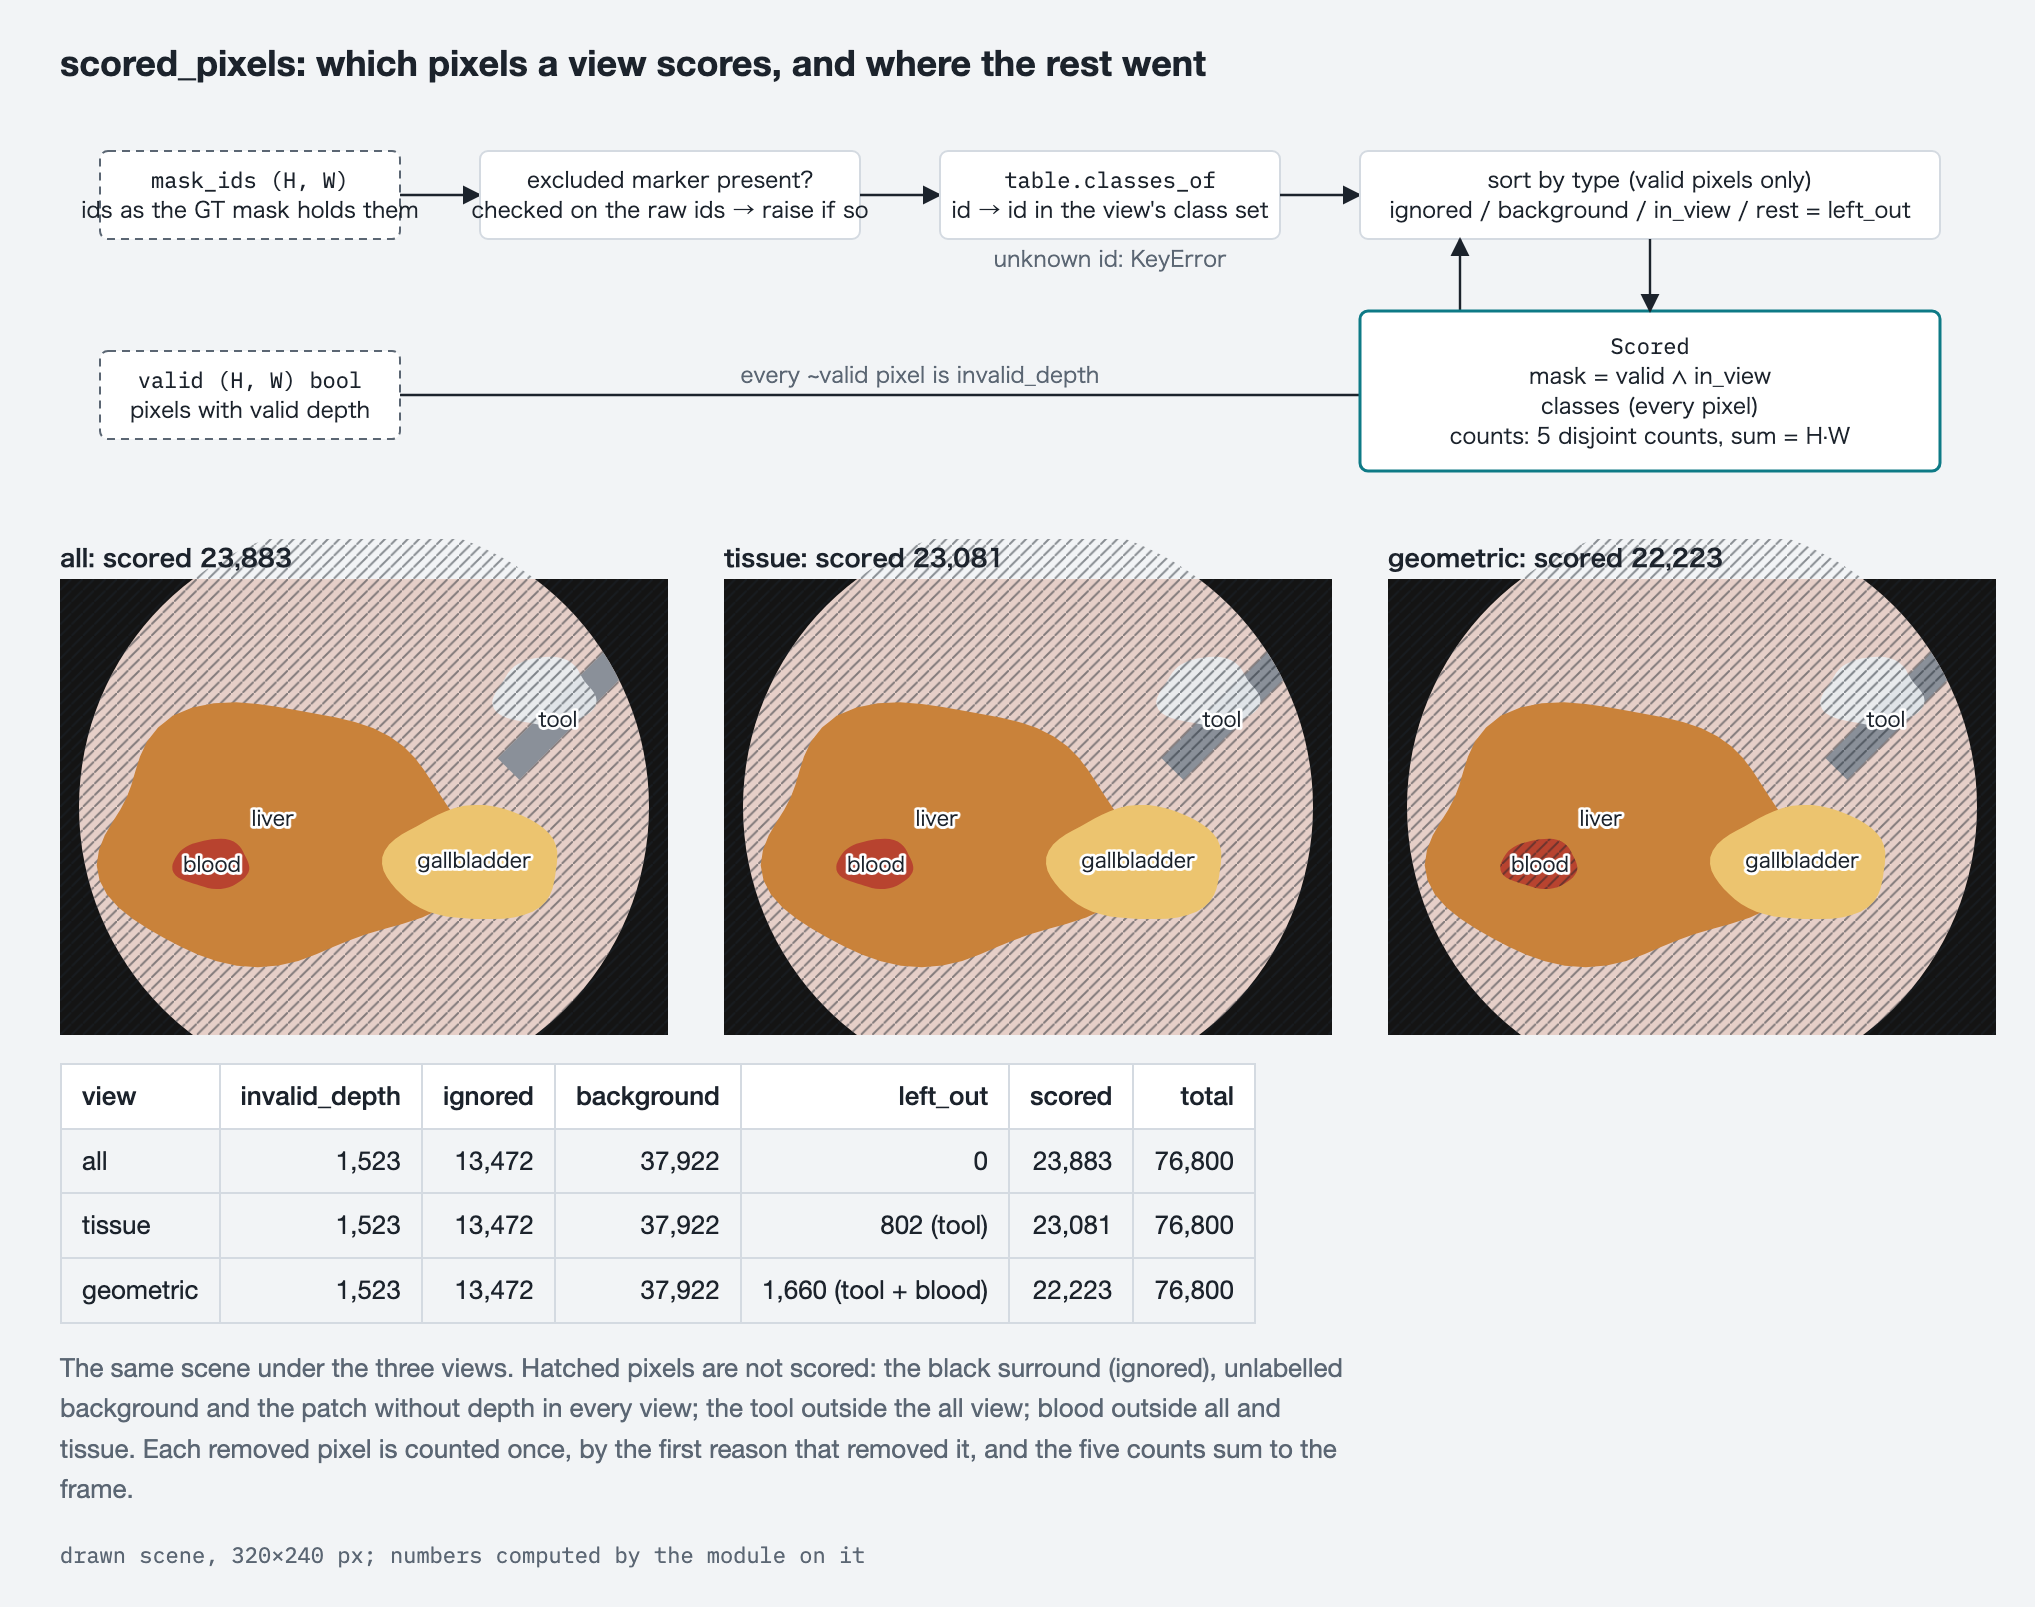
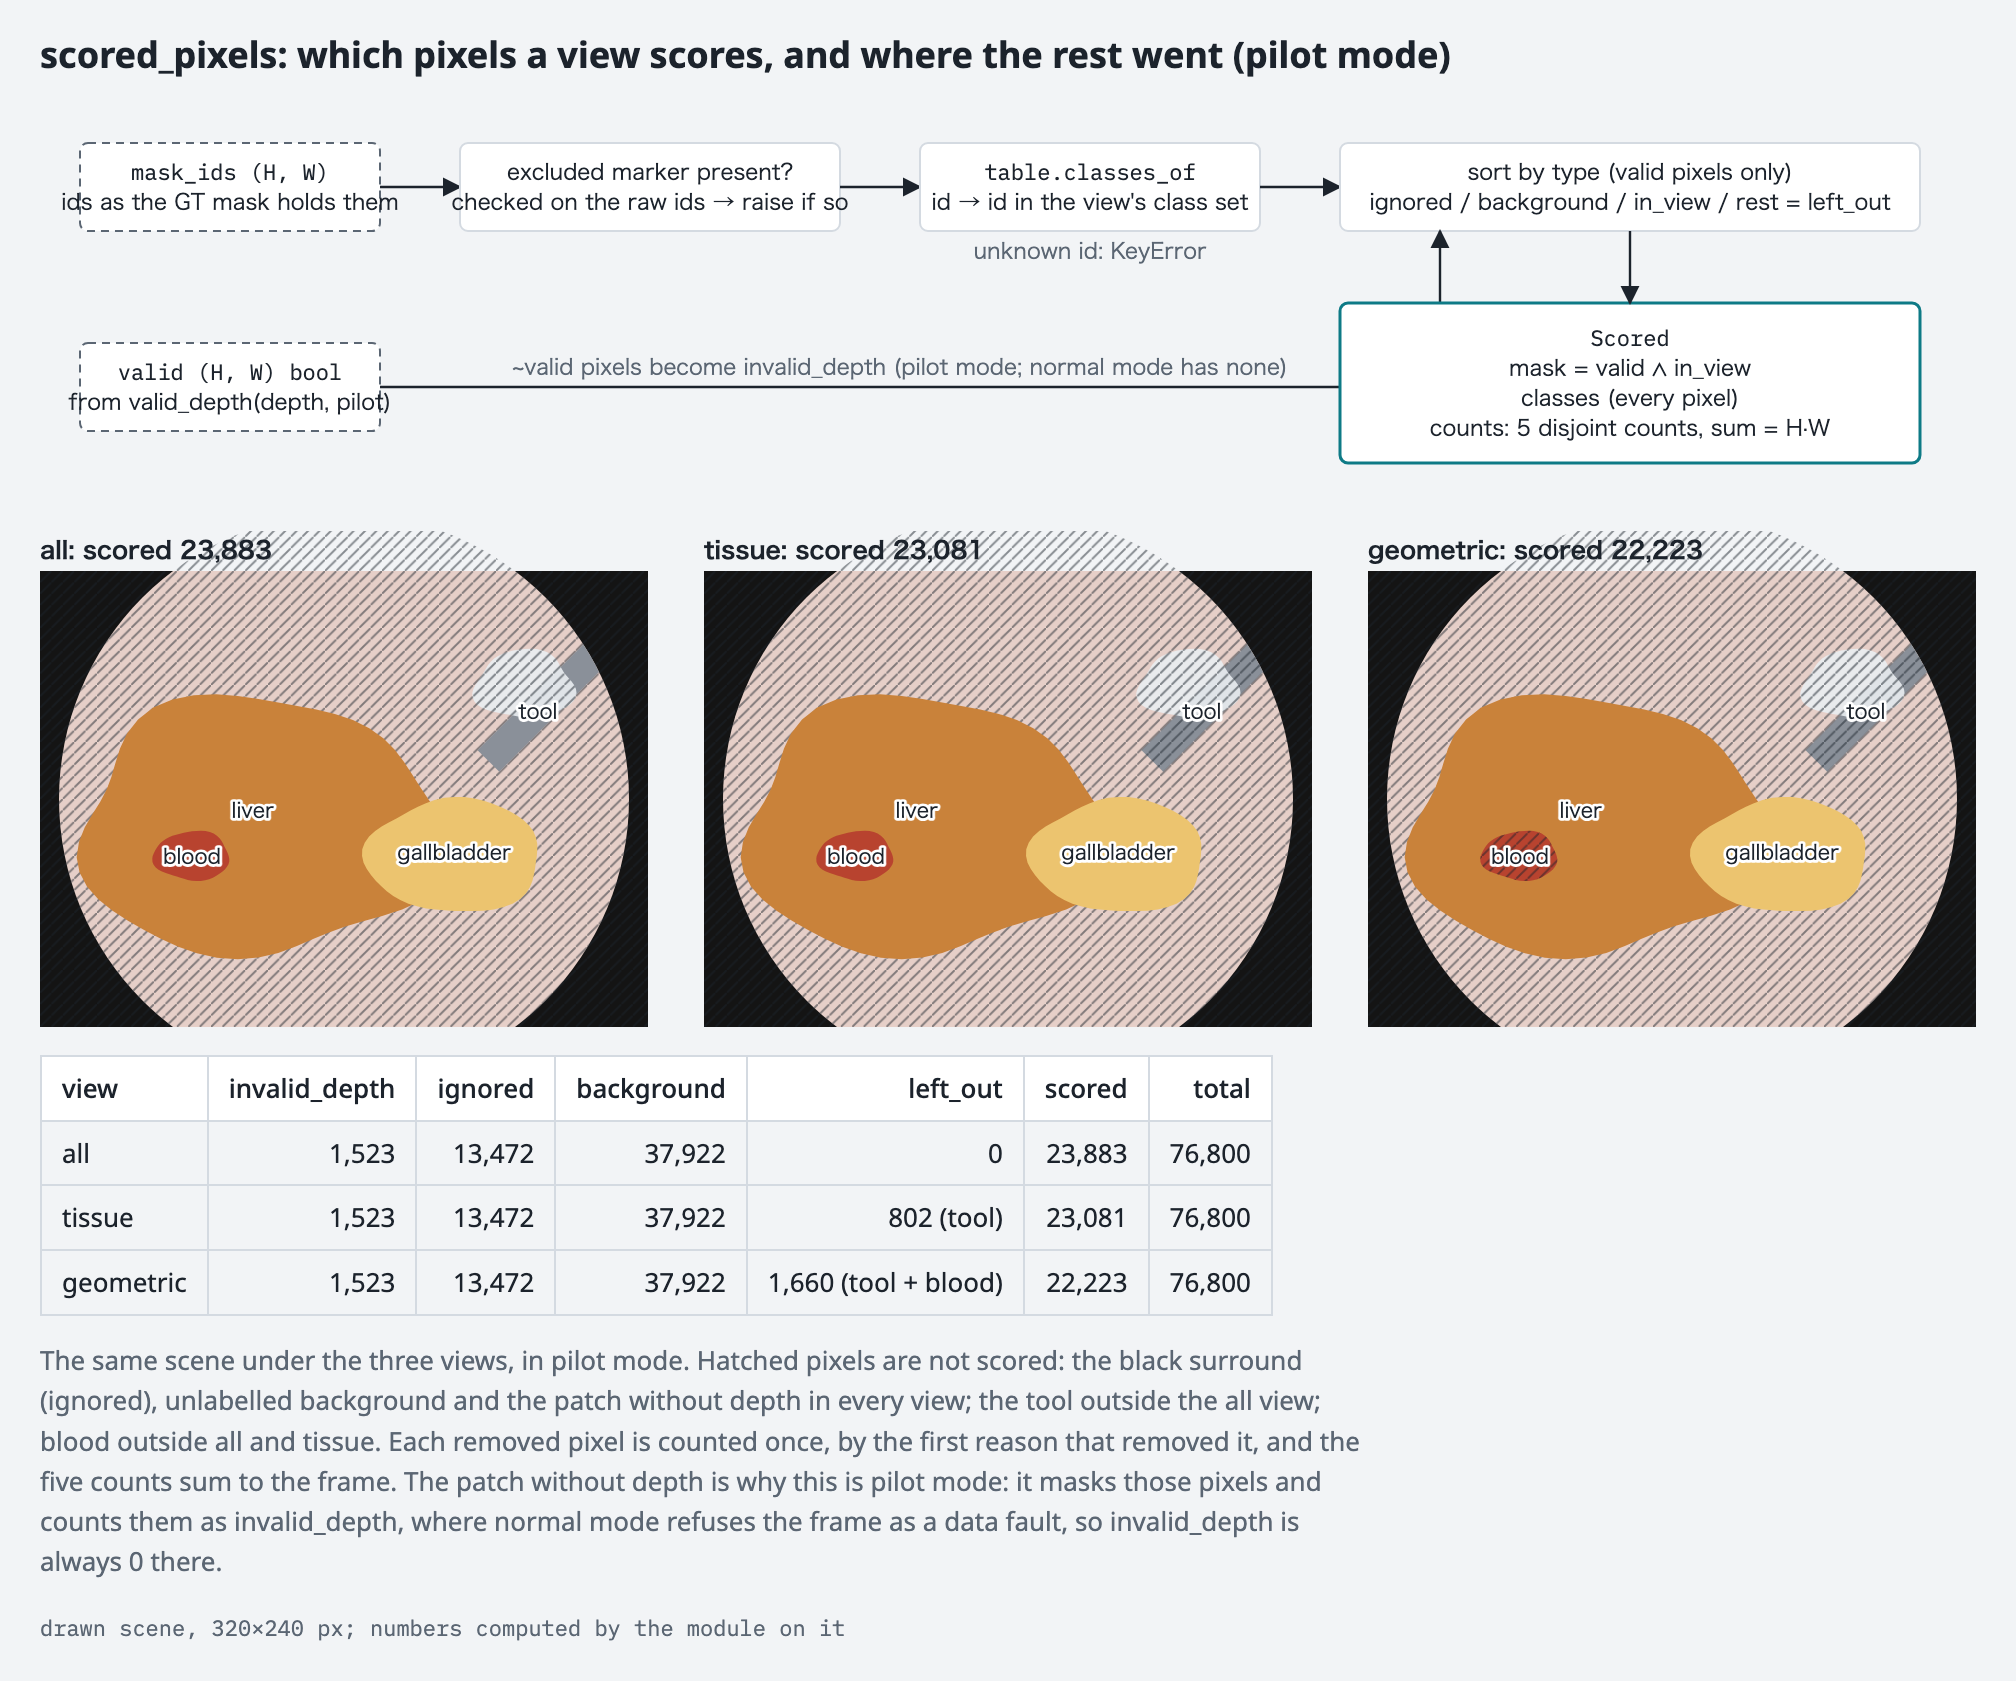
evalkit/scored: label the figure as pilot mode, and take its counts from the module
The scene has a patch without depth, which normal mode refuses since the
valid_depth change; the counts shown, invalid_depth 1,523 among them, are
pilot mode's. The figure and the docstring now say so, and the counts are
those scored_pixels(..., pilot=True) returns on the scene (identical to the
ones computed by hand before).

diff --git a/evalkit/scored.py b/evalkit/scored.py
@@ -36,7 +36,7 @@ written yet, so `frame_is_excluded` has no caller but the tests. It stays
 public for that driver.
 
 `docs/figures/scored_pixels.png` shows this on a drawn scene, with the numbers the module
-gives for it.
+gives for it in pilot mode: the scene has a patch without depth, which normal mode refuses.
 """
 from __future__ import annotations
 
